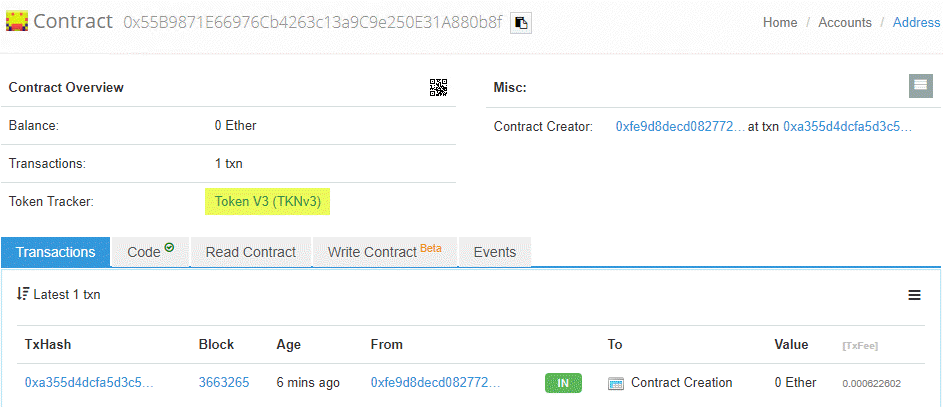
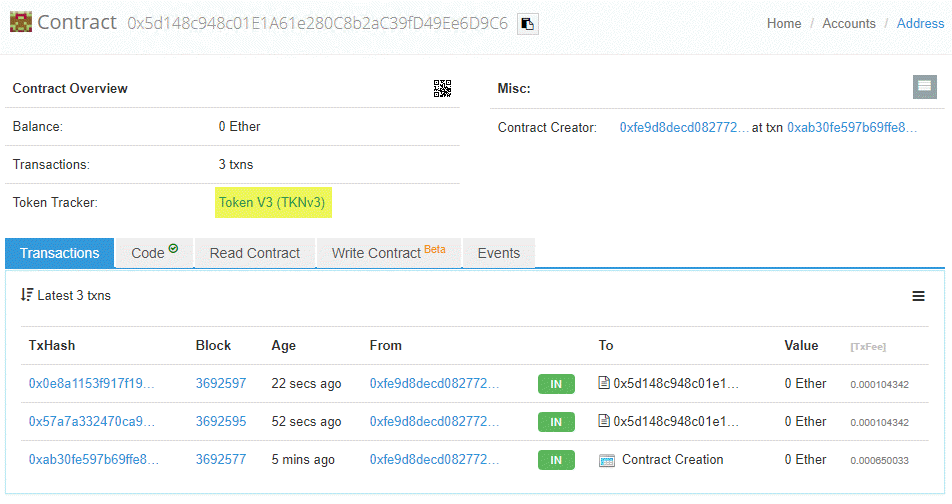
update

diff --git a/multiple_withdrawal.rst b/multiple_withdrawal.rst
@@ -8,7 +8,7 @@ Multiple withdrawal attack
 
 Description
 ***********
-`ERC20 standard <https://github.com/ethereum/EIPs/blob/master/EIPS/eip-20.md>`_ defines required APIs [#]_ for approving and transferring tokens from an approver. By these APIs, tokens can be spent by another third party (e.g., approved spender, online exchanges, third-party payments, or quantitative fund managemer) on behalf of the owner. 
+`ERC20 standard <https://github.com/ethereum/EIPs/blob/master/EIPS/eip-20.md>`_ defines required APIs [#]_ for approving and transferring tokens from an approver. By these APIs, tokens can be spent by another third party (e.g., approved spender, online exchanges, third-party payments, or quantitative fund management) on behalf of the owner. 
 
 .. figure:: images/multiple_withdrawal_01.png
     :scale: 90%
@@ -33,11 +33,11 @@ This issue is still open since October 2017 and several suggestions have been ma
 
 #. Alice allows Bob to transfer N tokens by calling ``approve(_BobAddr, N)``.
 #. After a while, Alice decides to change approval from N to M by executing ``approve(_BobAddr, M)``.
-#. Bob notices Alice's second transaction before it was mined and quickly sends another transaction that runs ``transferFrom(_AlicAddr, _BobAddr, N)``. This will transfer N Alice's tokens to Bob.
+#. Bob notices Alice's second transaction before it was mined and quickly sends another transaction that runs ``transferFrom(_AliceAddr, _BobAddr, N)``. This will transfer N Alice's tokens to Bob.
 #. Bob's transaction will be executed before Alice's transaction (because of higher transaction fee, miner’s policy or other prioritization ways) and Bob front-runs Alice's transaction.
 #. Alice’s transaction will be executed after Bob’s and allows Bob to transfer more M tokens.
 #. Bob successfully transferred N Alice's tokens and gains ability of transferring another M tokens.
-#. Before Alice notices that something went wrong, Bob calls ``transferFrom`` method again and transfers M Alice's tokens by executing ``transferFrom(_AlicAddr, _BobAddr, M)``.
+#. Before Alice notices that something went wrong, Bob calls ``transferFrom`` method again and transfers M Alice's tokens by executing ``transferFrom(_AliceAddr, _BobAddr, M)``.
 
 In fact, Alice attempted to change Bob's allowance from N to M, but she made it possible for Bob to transfer N+M of her tokens at most, while Alice never wanted to allow so many transfers by Bob:
 
@@ -103,7 +103,7 @@ Approving token transfer to non-upgradable smart contracts can be considered saf
 
 However, upgradable smart contracts may add new logic to a new version that needs re-verification before approving token transfer. Similarly, approving token transfer to people that we trust could be considered as a mitigation plan. Since this solution would have limited use cases, it could not be considered as a comprehensive solution for the attack.
 
-.. _minimi_token:
+.. _minime_token:
 
 4. MiniMeToken implementation
 =============================
@@ -154,7 +154,7 @@ These two functions can address race condition and prevent allowance double-spen
 
 #. Alice allows Bob to transfer N tokens by calling ``approve(_BobAddr, N)``. This will be executed by ``approve`` function since current Bob’s allowance is 0.
 #. After a while, Alice decides to decrease Bob’s approval by M by running ``decreaseApproval(_BobAddr, M)``.
-#. Bob notices Alice's second transaction and front runs it by executing ``transferFrom(_AlicAddr, _BobAddr, N)``.
+#. Bob notices Alice's second transaction and front runs it by executing ``transferFrom(_AliceAddr, _BobAddr, N)``.
 #. Bob’s transaction will be executed first and transfers N token to his account and the his allowance becomes 0 as result of this transfer.
 #. Alice’s transaction is mined after Bob’s transaction and tries to decrease Bob’s allowance by M. If Bob had already transferred more than M tokens, new Bob’s allowance becomes negative and it fails the transaction. So, the transaction does not change Bob's remaining allowance and he would be able to transfer the rest (which is legitimate transfer since Alice has already approved it). If Bob had transferred less than M tokens, the new allowance will be applied and reduces Bob's allowance by M.
 
@@ -182,7 +182,7 @@ In `this approach <https://gist.github.com/flygoing/2956f0d3b5e662a44b83b8e4bec6
     :scale: 90%
     :figclass: align-center
     
-    *Figure 12: Using a boolean variable to keeping track of transfered tokens*
+    *Figure 12: Using a boolean variable to keeping track of transferred tokens*
    
 This approach could prevent race condition as described below:
 
@@ -272,7 +272,7 @@ Comparing suggested solutions shows that they cannot satisfy at least one of the
     
 Proposal 1
 **********
-As the comparison table shows, a new solution is required to address this security vulnerability while adhering specification of ERC20 standard. The standard advises approvers to change spender allowance from N to 0 and then from 0 to M (instead of changing it directly from N to M). Since there are gaps between transactions, it would be always a possibility of front-running. As discussed in :ref:`minimi_token` implementation, changing allowance to non-zero values after setting to zero, will require tracking of transferred tokens by the spender. If we can not track transferred tokens, we would not be able to identify if any token has been transferred between execution of transactions. Although It would be possible to track transferred token through ``Transfer`` events (logged by ``transferFrom``), it would not be easily trackable in case of transferring to a third-party (Alice -> Bob, Bob -> Carole => Alice -> Carole).
+As the comparison table shows, a new solution is required to address this security vulnerability while adhering specification of ERC20 standard. The standard advises approvers to change spender allowance from N to 0 and then from 0 to M (instead of changing it directly from N to M). Since there are gaps between transactions, it would be always a possibility of front-running. As discussed in :ref:`minime_token` implementation, changing allowance to non-zero values after setting to zero, will require tracking of transferred tokens by the spender. If we can not track transferred tokens, we would not be able to identify if any token has been transferred between execution of transactions. Although It would be possible to track transferred token through ``Transfer`` events (logged by ``transferFrom``), it would not be easily trackable in case of transferring to a third-party (Alice -> Bob, Bob -> Carole => Alice -> Carole).
 
 The only solution that removes this gap is to use compare and set (CAS) pattern :cite:`Ref06`. It is one of the most widely used lock-free synchronization strategy that allows comparing and setting values in an atomic way. It allows to compare values in one transaction and set new values before transferring control. To use this pattern and track transferred tokens, we would need to add a new mapping variable to our ERC20 token. This change will still keep the token code compatible with other smart contracts due to internal usage of the variable:
 
@@ -450,7 +450,7 @@ Here allowance can be considered as maximum allowance. It indicates that Bob is 
     
     *Figure 26: Securing transferFrom method instead of approve method*
     
-https://rinkeby.etherscan.io/address/0x55b9871e66976cb4263c13a9c9e250e31a880b8f
+https://rinkeby.etherscan.io/address/0x5d148c948c01e1a61e280c8b2ac39fd49ee6d9c6
 
 .. figure:: images/multiple_withdrawal_32.png
     :scale: 80%
